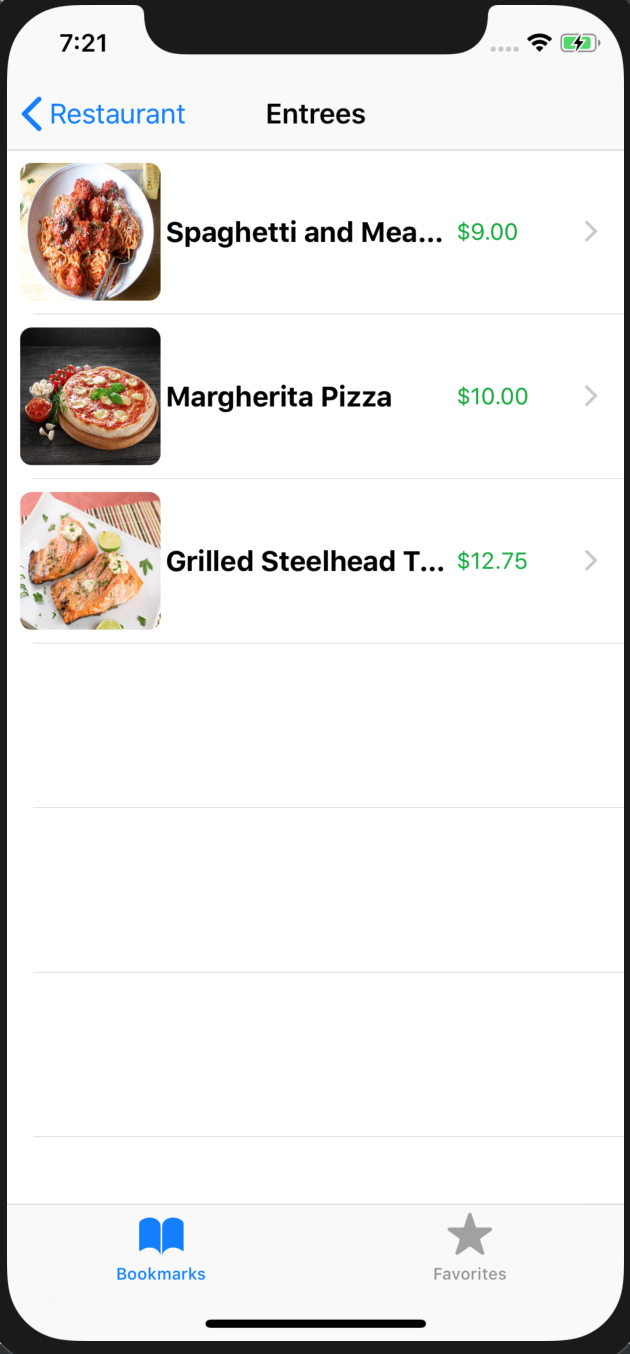
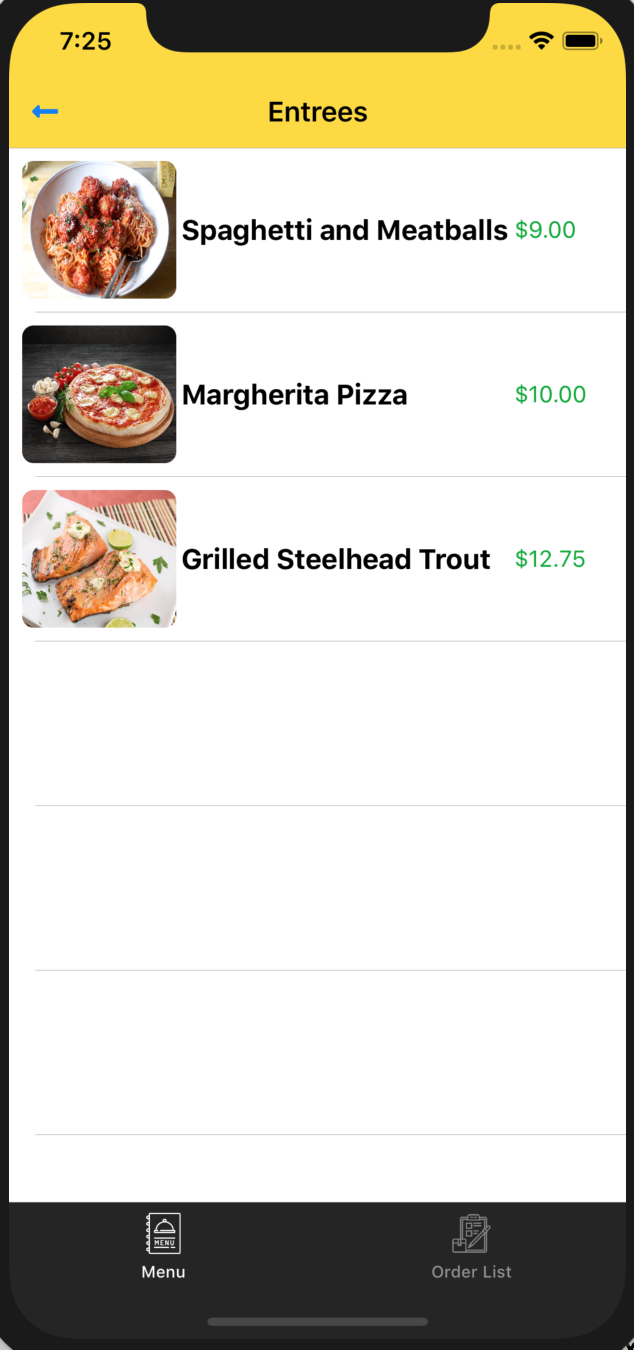
changing the app color scheme

diff --git a/restaurant/Infrastucture/Utils.swift b/restaurant/Infrastucture/Utils.swift
@@ -29,3 +29,20 @@ extension UIColor {
         self.init(red: CGFloat(r) / 255, green: CGFloat(g) / 255, blue: CGFloat(b) / 255, alpha: CGFloat(a) / 255)
     }
 }
+
+
+extension UIViewController {
+    func setNavBarStyle() {
+        navigationController?.navigationBar.barTintColor = UIColor(hexString: "#ffd80c")
+    }
+    
+    func setNavBarTitle(title: String) {
+        let titleLabel = UILabel()
+        titleLabel.frame = CGRect(x: 0, y: 0, width: 36, height: 36)
+        titleLabel.font = UIFont(name: "Font Awesome 5 Free", size: 18.0)!
+        titleLabel.text = title
+        titleLabel.textColor = UIColor(hexString: "#026670")
+        navigationItem.titleView = titleLabel
+        self.title = title
+    }
+}

diff --git a/restaurant/Controllers/MenuDetailViewController.swift b/restaurant/Controllers/MenuDetailViewController.swift
@@ -19,10 +19,15 @@ class MenuDetailViewController: UIViewController {
     override func viewDidLoad() {
         super.viewDidLoad()
 
+        self.menuImageView.layer.cornerRadius = 7
+        self.menuImageView.clipsToBounds = true
+        
         self.addOrderButton.layer.cornerRadius = 7
         self.addOrderButton.clipsToBounds = true
         
         self.setBarButtons()
+        
+        self.title = item?.name
         updateUI()
         // Do any additional setup after loading the view.
     }

diff --git a/restaurant/Controllers/OrderTableViewController.swift b/restaurant/Controllers/OrderTableViewController.swift
@@ -13,6 +13,7 @@ class OrderTableViewController: UITableViewController {
     var editButton: UIButton!
     override func viewDidLoad() {
         super.viewDidLoad()
+        self.setNavBarStyle()
         tableView.register(UINib(nibName: "MenuItemTableViewCell", bundle: nil), forCellReuseIdentifier: "MenuItemTableViewCell")
 //        UITabBarItem.appearance().setTitleTextAttributes([NSAttributedString.Key.font: UIFont(name: "FontAwesome", size: 15)!], for: UIControl.State.normal)
 

diff --git a/restaurant/Controllers/CategoryTableViewController.swift b/restaurant/Controllers/CategoryTableViewController.swift
@@ -13,7 +13,7 @@ class CategoryTableViewController: UITableViewController {
 
     override func viewDidLoad() {
         super.viewDidLoad()
-        
+        self.setNavBarStyle()
 //        MenuService.shared.fetchCategories{
 //            (result) in
 //            if let categoryList = result {

diff --git a/restaurant/Controllers/AddressTableViewController.swift b/restaurant/Controllers/AddressTableViewController.swift
@@ -16,6 +16,8 @@ class AddressTableViewController: UITableViewController {
     
     override func viewDidLoad() {
         super.viewDidLoad()
+        self.setNavBarStyle()
+        
         self.tableView.allowsSelectionDuringEditing = true;
         self.setBarButtons()
 
